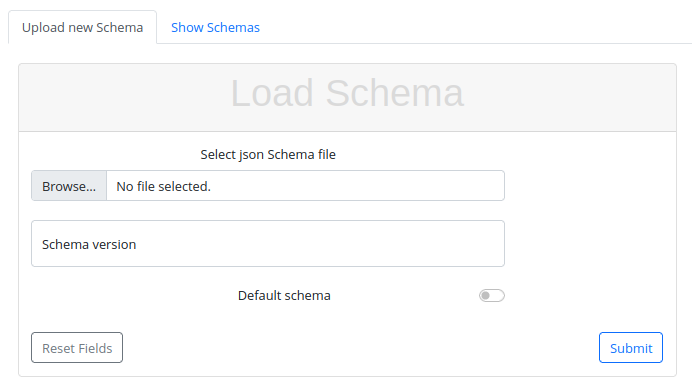
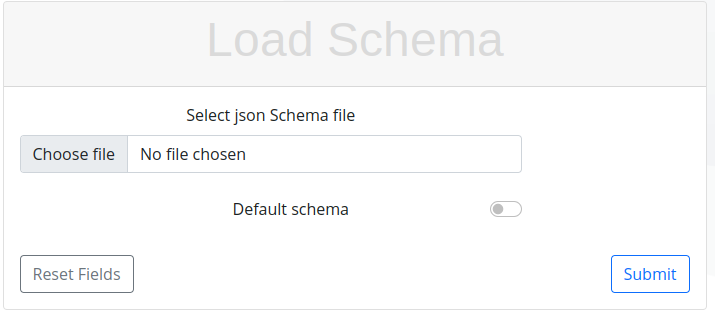
Fixing small issues and update the configuration documentation

diff --git a/relecov_core/templates/relecov_core/assignSamplesToUser.html b/relecov_core/templates/relecov_core/assignSamplesToUser.html
@@ -19,23 +19,28 @@
 
             <div class="card d-inline-flex flex-column w-auto p-5 border border-success" style="width: 18rem;">
                 <div class="card-body">
-                <h2 class="card-title">SUCCESSFUL Action</h2>
-                <br>
-                <p class="card-text">The following table shows the matches from your query</p>
-                <div class="row row-space-2 margin-b-4">
-                <div class="col-sm-12" >
-                    <table id="sample_list" class="table table-striped table-bordered">
+                    <h2 class="card-title">SUCCESSFUL Action</h2>
+                    <br>
+                    <p class="card-text">The following table shows the matches from your query</p>
+                    <div class="row row-space-2 margin-b-4">
+                        <div class="col-sm-12" >
+                            <table id="sample_list" class="table table-striped table-bordered">
 
-                </div> <!--// end col-sm-9 -->
-            </div> <!--// end row -->
+                        </div> <!--// end col-sm-9 -->
+                    </div> <!--// end row -->
+                </div> <!--// end car-body -->
+            </div> <!--// end card -->
 
         {% else %}
-            {% if not_result %}
-                <div class="card d-inline-flex flex-column w-auto p-5 border border-warning">
-                    <div class="card-body">
-
-                    </div>
+            {% if lab_data.labs.ERROR %}
+            <div class="card d-inline-flex flex-column w-auto p-5 border border-danger" style="width: 18rem;">
+                <div class="card-body">
+                    <h2 class="card-title text-danger">Unable to perform your request</h2>
+                    <br>
+                    <p class="card-text text-danger">{{lab_data.labs.ERROR}}</p>
                 </div>
+                <br><br><br>
+            </div>
             {% else %}
                 <div class="card d-inline-flex flex-column w-auto p-5 border border-success">
                     <div class="card-body">

diff --git a/relecov_documentation/views.py b/relecov_documentation/views.py
@@ -5,10 +5,7 @@ from relecov_documentation.utils.markdown_handling import (
     fix_img_folder,
 )
 
-# from django.utils.html import format_html
 
-
-# Create your views here.
 def index(request):
     converted_to_html = markdown_to_html("documentation.md")
     if isinstance(converted_to_html, dict):
@@ -34,8 +31,7 @@ def relecov_installation(request):
 
 
 def configuration(request):
-    return render(request, "relecov_documentation/error_404.html")
-    converted_to_html = markdown_to_html("initialConfiguration.md")
+    converted_to_html = markdown_to_html("configuration.md")
     if isinstance(converted_to_html, dict):
         return render(request, "relecov_documentation/error_404.html")
     converted_to_html = fix_img_folder(converted_to_html)

diff --git a/relecov_core/views.py b/relecov_core/views.py
@@ -271,7 +271,7 @@ def metadata_visualization(request):
 
 @login_required
 def intranet(request):
-    relecov_group = Group.objects.get(name="RelecovManager")
+    relecov_group = Group.objects.filter(name="RelecovManager").last()
     if relecov_group not in request.user.groups.all():
         intra_data = {}
         lab_name = get_lab_name_from_user(request.user)

diff --git a/relecov_documentation/markdown_files/configuration.md b/relecov_documentation/markdown_files/configuration.md
@@ -1,29 +1,37 @@
-# Initial Configuration
+# Configuration
 
-Before start uploading METADATA information to Relecov you must configure some information.
-The following chapters will show you the way that this information must be set in your local copy of relecov.
+After running the installation script and settings, Relecov server is up, so 
+anyone that access the relecov url can see about it. However at this very moment 
+there is nor information neither options to start uploading data.
 
-You must login as "admin" user to see the configuration Menu.
+Admin user must perform more steps to create a the basic environment for users 
+can use the application.
+
+Login as **"admin"** user to see the configuration Menu.
 
 ![configuration_menu](./img/configuration_menu.png)
 
 Note. That this menu is only available when login with user name as admin.
 
+When click on the configuration tab, you can see that serveral options that we 
+are going to describe below.
+
 ## Table of Contents
 
 1. [Schema](#schema)
 2. [Metadata](#metadata)
-3. [Annotation](#Annotation)
+3. [Annotation](#annotation)
+4. [Create New User](#Create_New_User)
 
 
 # Schema
 The first step is to load the relecov schema into database.
 
-For your convenience we have kept a schema for relecov in conf folder. Of course you can upload your own schema, but be aware that it could run into issues, because as we design "relecov platform" to be flexible, we have not tested any single scenario.
+For your convenience we have kept the latest schema for relecov in conf folder. Of course you can upload your own schema, but be aware that it could run into issues, because as we design "relecov platform" to be flexible, we have not tested any single scenario.
 
 ![upload_schema](img/upload_schema.png)
 
-In the form select the **relecov schema file**, write the **version** of the schema and click on the **Default schema** button to define that this schema will be used as default settings.
+In the form select the **relecov schema file** and click on the **Default schema** button to define that this schema will be used as default settings.
 
 Keep in mind that it is allowed to define as many schemas as you wish but only one must be the default one from where information must be filled.
 
@@ -52,7 +60,10 @@ After you have define the schema go to next chapter **Metadata**.
 
 # Metadata
 
-To define the Metadata fields, select from the top menu Configuration --> Metadata Visualization.
+Next steps is to define the Metadata fields, select from the top menu
+
+Configuration --> Metadata Visualization.
+
 You will get a form to define the fields that will show later on when uploading samples metadata.
 
 You can see that there is already fill with information.
@@ -60,12 +71,21 @@ You can see that there is already fill with information.
 ![form_select_metadata_fields](img/form_select_metadata_fields.png)
 
 This settings are collected from 2 different sources:
+
 * relecov schema loaded in the previous chapter. When all fields that has the fill mode property to "sample" are showed.
 * template_for_metadata_form.txt, which is located in conf folder. From this file the "Position in the form" is collected and presented in the table.
 
-In order to reduce the time for typing information that is related to all samples, we have split the fields in 2 tabs.
-* Fields for Sample
-* Fields for batch
+We have created this division, in order to reduce the time when user is typing information to upload Metadata information. Then for those fields that are 
+related to all samples, only once is typing. 
+
+The fields that we have considered that apllies for all samples in Metadata we 
+named them as "batch" and for those that each sample has a different value we have
+named as "sample".
+
+This is the reason that in the Select columns each field can be selected as:
+
+* sample
+* batch
 
 We recommend to keep the settings as they are, but of course you can change the order of visualization, if a field is showed, or it the field apply to all samples or it must be set for each one.
 
@@ -75,7 +95,13 @@ Apply the selected fields by clicking on the submit button. As result you will g
 
 At this point you have defined the fields that are required to upload your sample metadata to the platform.
 
-Only one metadata form allowed to be defined, For that reason the next time that you select in the menu Configuration --> Metadata Visualization, you not longer see the previous form for selecting the fields but a new window where you can see the selected fields.
+**Note that only one metadata form allowed to be defined.**
+
+For that reason the next time that you select in the menu 
+
+Configuration --> Metadata Visualization
+
+You not longer see the previous form for selecting the fields but a new window where you can see the selected fields.
 
 By default the "Fields for sample" tab is open. From here you can see the metadata fields that have to be filled each time for each sample.
 
@@ -93,15 +119,19 @@ For doing it, click on the Delete Fields tab.
 
 ![show_metadata_delete](img/show_metadata_delete.png)
 
-As you see there is a Warning message indicating that this action cannot be reverted. Once it is deleted it cannot be recover. To define new fields, repeat the definition process again.
+As you see there is a Warning message indicating that this action cannot be reverted. Once it is deleted it cannot be recover. 
+
+To define new fields, repeat the definition process again.
 
 # Annotation
 
-Annotation file for virus organism in a **gff** format is required when loading variant long table, later on.
+The last step for configuration is to upload a file which contains the virus 
+annotation. 
 
-You can upload the annotation file, in gff format that you need for you project. For your convenience we have stored on the "conf" folder named "NC_045512.2.gff".
+This file must be in a **gff** format, that you can upload your own or use the 
+virus annotation that is stored in the "conf" folder named "NC_045512.2.gff".
 
-For uploading this file or the one you need select **Virues Annotation** from the Configuation menu.
+For uploading the file, select **Virues Annotation** from the Configuation menu.
 ![show_form_annotations](img/form_annotations.png)
 
 Select the file and submit your request.
